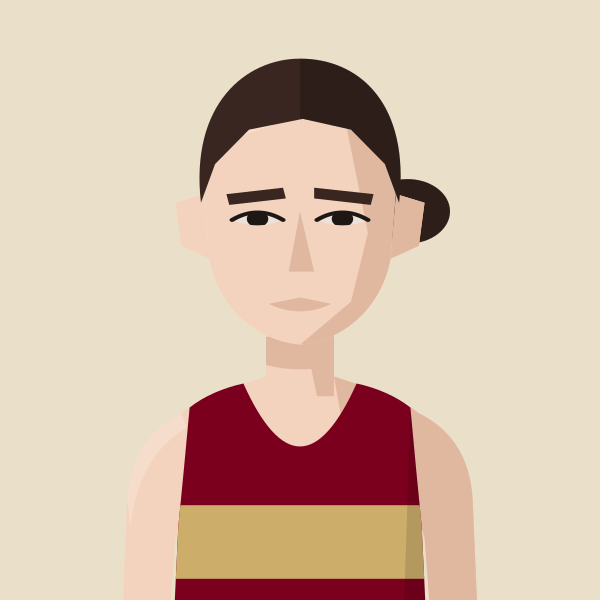
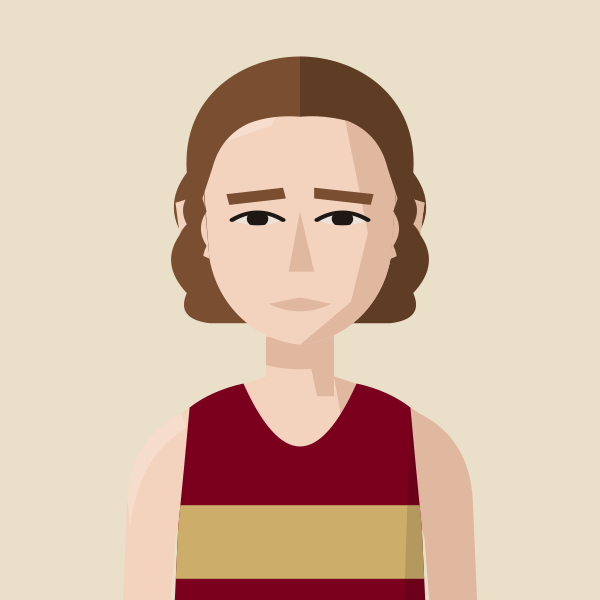
Emily Bradley: wavy chestnut hair swept back, from the Feb photo
Claude-Session: https://claude.ai/code/session_01MgmDWhFqnSSnP4iBLKXUZC

Changed region(s): [[0.27, 0.09, 0.75, 0.54]]

diff --git a/files/index.html b/files/index.html
@@ -577,7 +577,7 @@ add('kitty-shepherd-cross','BEL','Kitty Shepherd-Cross','Kitty Shepherd Cross');
 return m;})();
 // Athlete header figure: superstar portrait if we have one, else a grey runner in the club vest, else the plain vest icon
 // Changes whenever any portrait changes (set by tools/build_og.py), so browsers fetch fresh images instead of old cached ones
-const PORTRAIT_V='f53444af';
+const PORTRAIT_V='18a11032';
 const AthletePortrait=({name,club,w,fill,onClick})=>{const[failed,setFailed]=useState(false);const pk=PORTRAITS[normalizeNameForCompare(name).replace(/\s*\([^)]*\)$/,'')];const file=pk&&pk.club===club?pk.file:null;const src=file?`/portraits/athletes/${file}.svg?v=${PORTRAIT_V}`:PORTRAIT_CLUBS.has(club)?`/portraits/clubs/${club.replace(/\//g,'').replace(/&/g,'and')}.svg?v=${PORTRAIT_V}`:null;if(!src||failed)return<div onClick={onClick} className={onClick?'cursor-pointer':''}><ClubShield club={club} size={w}/></div>;const h=Math.round(w*148/126),ih=Math.round(w*1.4);if(fill)return<div onClick={onClick} className="cursor-pointer" style={{alignSelf:'stretch',minHeight:h,aspectRatio:'126 / 148',flexShrink:0,position:'relative',borderRadius:4,overflow:'hidden'}}><img src={src} alt={file?`Portrait of ${name.replace(/\s*\([^)]*\)$/,'')}`:`Runner in ${CLUBS[club]?.name||club} vest`} style={{position:'absolute',top:0,left:0,display:'block',width:'100%',height:'auto'}} onError={()=>setFailed(true)}/></div>;return<div style={{width:w,height:h,borderRadius:4,overflow:'hidden',flexShrink:0}}><img src={src} alt={file?`Portrait of ${name.replace(/\s*\([^)]*\)$/,'')}`:`Runner in ${CLUBS[club]?.name||club} vest`} width={w} height={ih} style={{display:'block',width:w,height:ih}} onError={()=>setFailed(true)}/></div>;};
 const getClubVestSvg=(club)=>{
   const p="M3 0 L6 0 Q7 4 10 5 Q13 4 14 0 L17 0 L17 20 L3 20 Z";

diff --git a/tools/gen_portraits.py b/tools/gen_portraits.py
@@ -127,6 +127,8 @@ HAIR["cropround"] = '<path d="M65,100 C62,60 82,40 100,40 C118,40 138,60 135,100
 HAIR["croprecederound"] = '<path d="M65,100 C62,60 82,40 100,40 C118,40 138,60 135,100 L132,84 C131,67 126,57 119,55 C111,54 106,60 100,60 C94,60 89,54 81,55 C74,57 69,67 68,84 Z"/>'
 HAIR["tuftrecede"] = '<path d="M65,100 L62,80 L66,62 L72,50 L80,44 L84,34 L93,38 L99,28 L106,36 L114,31 L119,40 L128,44 L134,56 L138,74 L135,100 L132,84 C131,67 126,57 119,55 C111,54 106,60 100,60 C94,60 89,54 81,55 C74,57 69,67 68,84 Z"/>'
 HAIR["messyfringe"] = '<path d="M63,102 L59,76 L62,58 L70,46 L79,41 L82,30 L92,33 L99,24 L107,31 L116,26 L121,35 L130,39 L137,51 L141,70 L137,102 L132,86 Q129,74 122,72 L116,79 L110,74 L102,81 L96,75 L88,80 L83,73 Q72,76 68,86 Z"/>'
+HAIR["wavyback"] = '<path d="M64,108 C60,58 80,38 100,38 C121,38 140,58 136,108 L131,88 Q128,72 117,66 Q108,63 100,64 Q90,63 82,67 Q72,73 69,88 Z"/><path d="M64,96 Q56,104 60,114 Q54,122 60,132 Q56,142 64,148 L68,140 Q64,132 67,124 Q63,116 67,108 Z"/><path d="M136,96 Q144,104 140,114 Q146,122 140,132 Q144,142 136,148 L132,140 Q136,132 133,124 Q137,116 133,108 Z"/>'
+HAIR_BACK["wavyback"] = '<path d="M60,90 C58,54 80,36 100,36 C120,36 142,54 140,90 Q148,104 142,118 Q150,132 140,146 Q144,158 132,160 L68,160 Q56,158 60,146 Q50,132 58,118 Q52,104 60,90 Z"/>'
 FACIAL = {
     "shortbeard": '<path d="M66,112 L74,124 L84,146 L116,146 L126,124 L134,112 L134,180 L66,180 Z" opacity=".6"/><path d="M86,141 L100,138 L114,141 L113,146 L100,143.5 L87,146 Z" opacity=".7"/>',
     "mostubble": '<path d="M66,112 L74,124 L84,146 L116,146 L126,124 L134,112 L134,180 L66,180 Z" opacity=".32"/><path d="M84,141 L100,137 L116,141 L117,150 L112,147 L100,144 L88,147 L83,150 Z"/>',
@@ -484,7 +486,7 @@ W = [
  ("lucy-peters","BEL","Lucy Peters",dict(skin=1,hair="wavytie",hair_colour="blonde"),"blonde flowing ponytail"),
  ("emma-lord","H/W","Emma Lord",dict(skin=1,hair="ponytail",hair_colour="#B9955E"),"dark blonde ponytail"),
  ("alice-bridger-morales","HHH","Alice Bridger Morales",dict(skin=3,hair="wavytie",hair_colour="black"),"black curly ponytail"),
- ("emily-bradley","BEL","Emily Bradley",dict(skin=1,hair="lowbun",hair_colour=DB),"dark brown hair tied up"),
+ ("emily-bradley","BEL","Emily Bradley",dict(skin=1,hair="wavyback",hair_colour="#7A4E30"),"wavy chestnut hair swept back"),
  ("isabelle-pickett","G&G","Isabelle Pickett",dict(skin=1,hair="ponytail",hair_colour="ginger"),"ginger ponytail"),
  ("felicity-hayward","THH","Felicity Hayward",dict(skin=2,hair="wavytie",hair_colour=DB),"dark brown ponytail"),
  ("gabriel-reynolds","HHH","Gabriel Reynolds",dict(skin=2,hair="ponytail",hair_colour="#8A6A45"),"light brown ponytail"),
